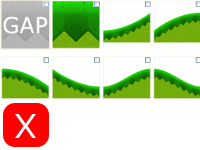
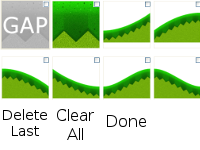
Better edit mode features.

diff --git a/js/game.js b/js/game.js
@@ -260,7 +260,6 @@ function start() {
             gui.add(game, 'restart');
             
             started = true;
-        
         }
     
         
@@ -353,7 +352,12 @@ function start() {
             }
             
             if (editing) {
-                game.camera.x = pb.lastTile().sprite.x-300;
+                var last = pb.lastTile();
+                if(last != undefined){
+                    game.camera.x = last.sprite.x-300;
+                } else {
+                    game.camera.x = 0;
+                }
             
             }
         }
@@ -454,6 +458,17 @@ function start() {
             if (tileIndex == 8){
                 pb.deleteLastTile();
             }
+            
+            if(tileIndex == 9){
+                pb.clear();
+                
+            }
+            if(tileIndex == 10){
+                pb.printTiles();
+                game.editmode();
+                game.restart();
+            }
+
         
         };
         

diff --git a/js/platformbuilder.js b/js/platformbuilder.js
@@ -56,9 +56,11 @@ PGE.PlatformBuilder.prototype = {
     },
     
     clear: function(){
-    
-        this.tiles = [];
+        while(this.lastTile() != undefined){
+            this.deleteLastTile();
+        }
         this.nextTileX = 0;
+        
     
     },
     
@@ -110,6 +112,16 @@ PGE.PlatformBuilder.prototype = {
         this.lastTile().sprite.kill();
         this.tiles.pop();
     
+    },
+    
+    
+    
+    printTiles : function() {
+        var toReturn = "";
+        for (var t=0;t<this.tiles.length;t++){
+            var tile = this.tiles[t];
+            toReturn += tile.imgName + ",";
+        }
+        console.log(toReturn);
     }
-
 };
